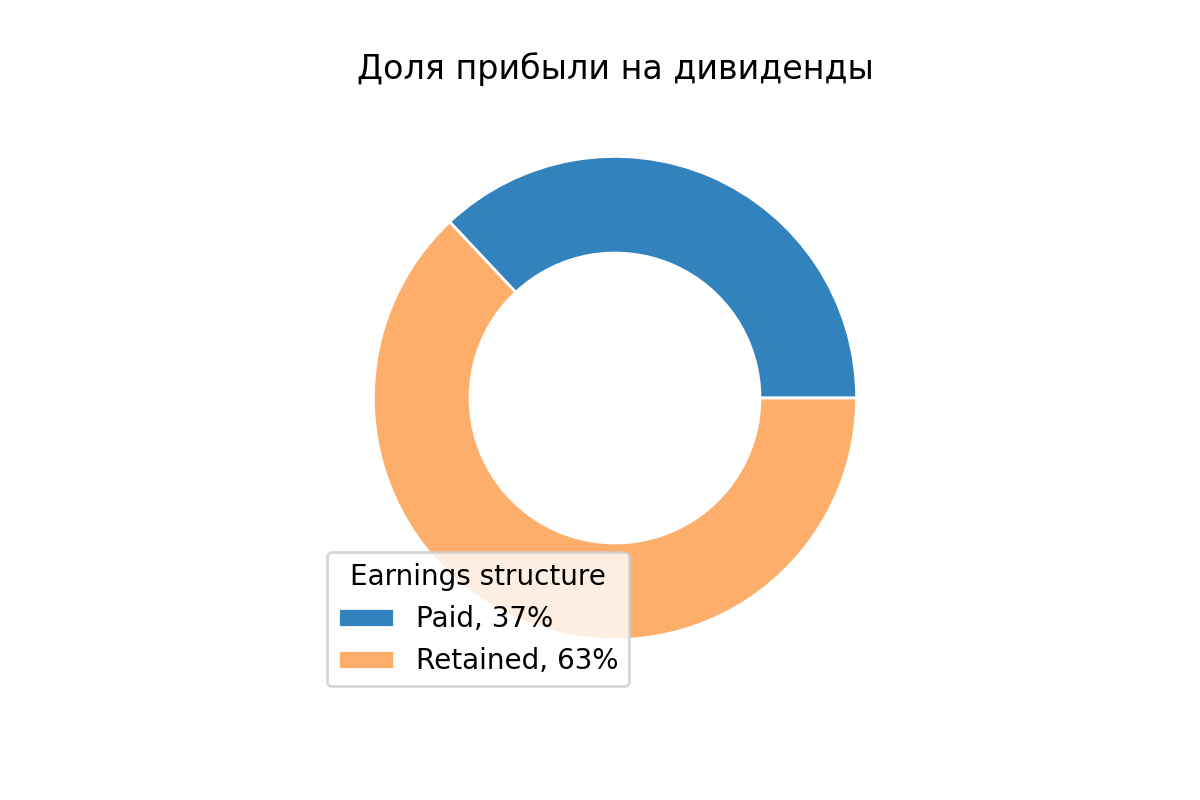
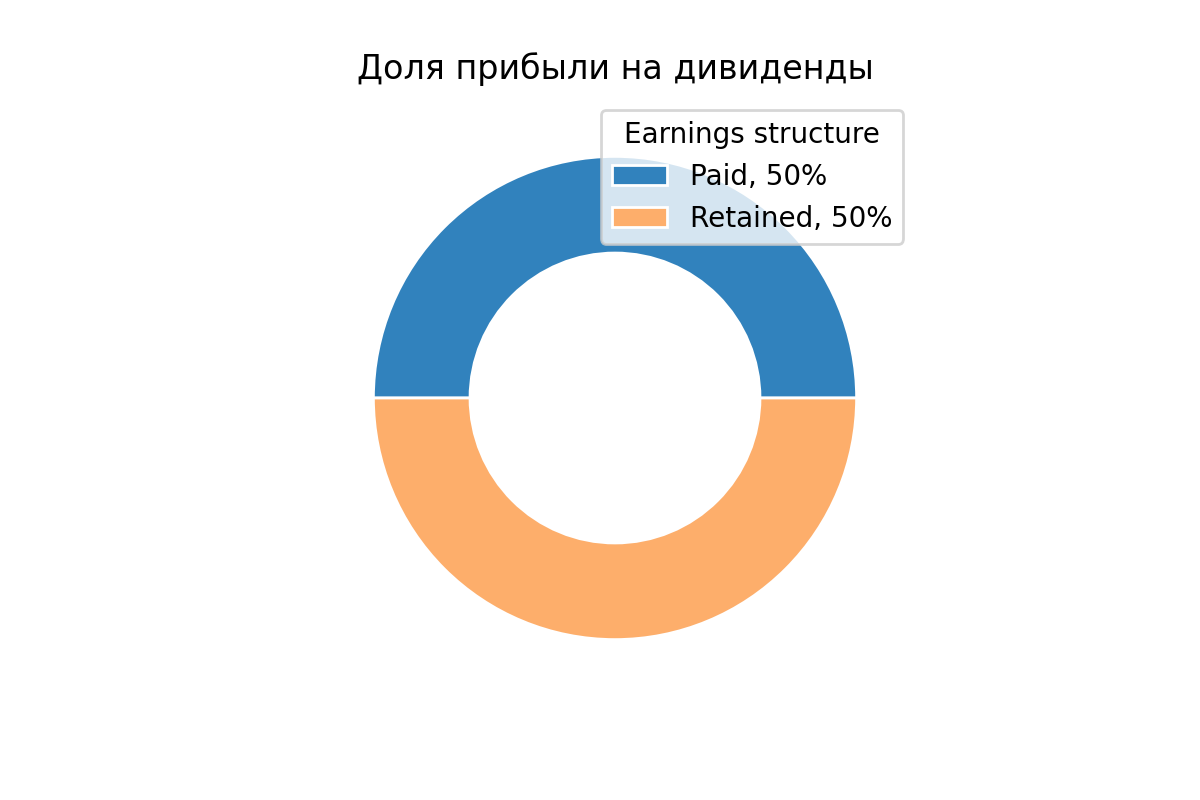
Fix AGRO

Changed region(s): [[0.4933, 0.125, 0.7708, 0.3125], [0.2775, 0.6875, 0.5242, 0.875], [0.3083, 0.2812, 0.4317, 0.5]]

diff --git a/_posts/2020-12-11-AGRO.md b/_posts/2020-12-11-AGRO.md
@@ -64,7 +64,7 @@ toc: true
 > Согласно дивидендной политике, Русагро планирует направлять на выплаты акционерам минимум 25% чистой прибыли по МСФО. Рассчитываем, что выплаты будут происходить 2 раза в год (по полугодиям). Платят обычно от 35 до 50% от прибыли. (согласно [dohod.ru](https://www.dohod.ru/))
 
 ![](../sources/AGRO/images/6_payout.png)
-**Payout** — доля прибыли, направленной на дивиденды (обычно норма до 50%) — *здесь 37% за 2020, нормальный показатель*
+**Payout** — доля прибыли, направленной на дивиденды (обычно норма до 50%) — *здесь 50% за 2020, нормальный показатель*
 
 ![](../sources/AGRO/images/7_dividend_share_percent.png)
 **Дивидендная доходность** — отношение величины годового дивиденда на акцию к цене акции — *доходность выше ставок по депозитам, хорошо*
@@ -84,8 +84,8 @@ toc: true
 ![](../sources/AGRO/images/10_EV_DEBT_EBITDA.png)
 показатели по МСФО 2019 согласно [conomy.ru](https://www.conomy.ru), чем ближе к точке (0, 0), тем лучше — *показатели выше среднего*
 
-### Оценка стоимости акций
-Согласно DCF модели, стоимость акций AGRO имеет потенциал к росту. Конкретные цифры можно посмотреть на [conomy.ru](https://www.conomy.ru/emitent/ros-agro-plc/page-templates/3265/7183)
+### Оценка DCF
+Согласно DCF модели, AGRO имеет потенциал к росту. Конкретные цифры можно посмотреть на [conomy.ru](https://www.conomy.ru/emitent/ros-agro-plc/page-templates/3265/7183)
 
 ## Вывод
 Абсолютно субъекивные ни на что не претендующие итоги:
